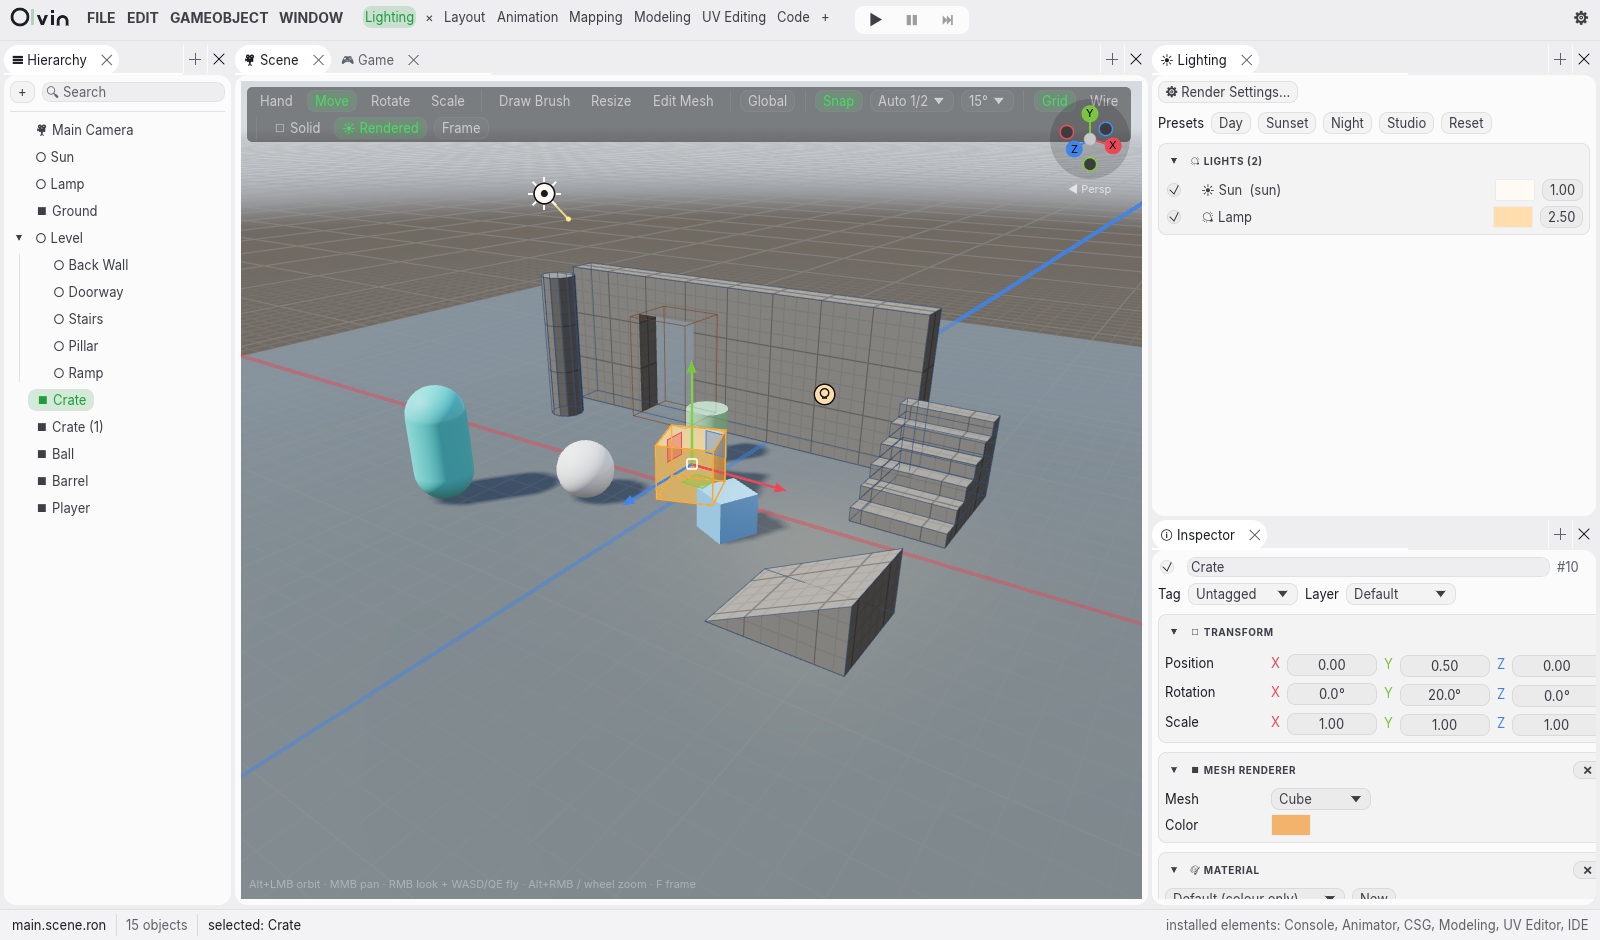
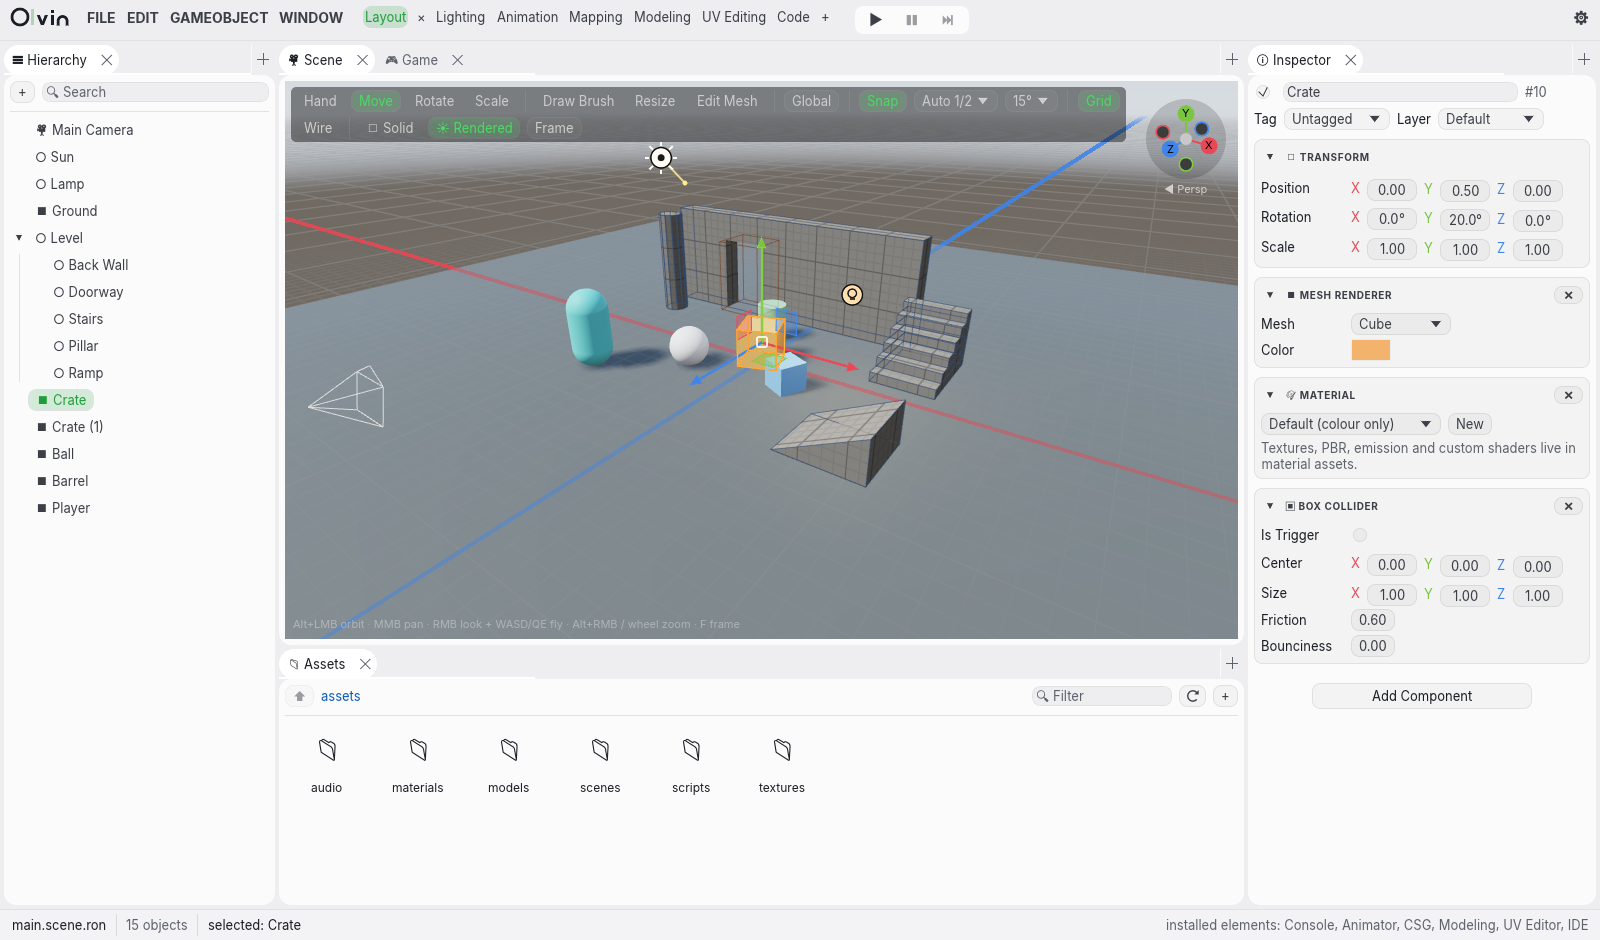
Docs: fresh README screenshots; ROADMAP undo and animation editor done
Claude-Session: https://claude.ai/code/session_01Sh9ehuscTWCNEtyXLAF9i7

diff --git a/ROADMAP.md b/ROADMAP.md
@@ -105,12 +105,12 @@
 
 ## Фаза 5. Редактор (P1–P2)
 
-- [~] **Undo и redo для всех операций**: сейчас есть в части редактора. Проверить, что покрыты перетаскивание, инспектор, Edit Mode, CSG и UV. (M) [P1] — частично: снимки всей сцены (`commit`, `UNDO_LIMIT`) покрывают всё, что меняет `SceneFile`; Edit Mode, CSG и UV не проверены.
+- [x] **Undo и redo для всех операций**: сейчас есть в части редактора. Проверить, что покрыты перетаскивание, инспектор, Edit Mode, CSG и UV. (M) [P1] — проверено тестами редактора: перетаскивание в иерархии, гизмо, инспектор, материалы (файлы откатываются вместе со сценой), Edit Mode, CSG, UV, анимация; во время Play история заморожена. Файловые операции с ассетами (переименование, перенос, удаление) в Undo не входят.
 - [x] **Play Mode, который не теряет правки**: сейчас важно, что происходит с сценой при остановке. Снимок сцены при старте и откат при стопе. (M) [P1] — `start_play`/`stop_play` сохраняют и восстанавливают сцену (`PlaySession`).
 - [ ] **Префабы в редакторе**: создание, переопределения, применение обратно. Зависит от фазы 1. (M) [P1]
 - [~] **Редактор материалов**: контракты M1 уже есть (`*.mat.ron`), нужен визуальный редактор с превью. (M) [P2] — частично: редактор материала в инспекторе с пресетами; превью нет.
 - [ ] **Панель профилировщика и статистики** (см. фазу 1). (S) [P2]
-- [ ] **Редактор анимаций**: соединить Animator с рантаймом после фазы 2. (L) [P2]
+- [x] **Редактор анимаций**: соединить Animator с рантаймом после фазы 2. (L) [P2] — аниматор как в Blender: F-кривые с Auto Clamped Bezier (перенос расчёта из Blender), Timeline, Dope Sheet, Graph Editor, I/Alt+I и цвета ключей в инспекторе; формат сцены v3 (`SceneFile::animation`), в игре и Play проигрывает `olvin_anim::ActionPlayer`. Нет: автоключей, маркеров, Normalize, анимации свойств кроме Transform; порядок поворотов YXZ, не XYZ.
 - [~] **Поиск по сцене и ассетам**, фильтры в консоли. (S) [P2] — частично: фильтры в панели ассетов и в консоли; поиска по иерархии нет.
 - [ ] **Multi-scene**: открыть несколько сцен одновременно, переключаться между ними. (M) [P3]
 - [ ] **Горячие клавиши настраиваемые** (сейчас зашиты). (S) [P3]

diff --git a/ROADMAP.en.md b/ROADMAP.en.md
@@ -105,12 +105,12 @@ Goal: what has been written is reliable, and the documentation does not lie.
 
 ## Phase 5. Editor (P1–P2)
 
-- [~] **Undo and redo for all operations**: currently present in part of the editor. Check that dragging, the inspector, Edit Mode, CSG and UV are covered. (M) [P1] — partial: whole-scene snapshots (`commit`, `UNDO_LIMIT`) cover anything that changes the `SceneFile`; Edit Mode, CSG and UV are unchecked.
+- [x] **Undo and redo for all operations**: currently present in part of the editor. Check that dragging, the inspector, Edit Mode, CSG and UV are covered. (M) [P1] — verified by editor tests: hierarchy drag, gizmos, the inspector, materials (files roll back with the scene), Edit Mode, CSG, UV, animation; history is frozen during Play. Asset file operations (rename, move, delete) are not undoable.
 - [x] **Play Mode that does not lose edits**: what happens to the scene when playback stops matters. A snapshot of the scene at start and a rollback on stop. (M) [P1] — `start_play`/`stop_play` save and restore the scene (`PlaySession`).
 - [ ] **Prefabs in the editor**: creating, overriding, applying back. Depends on phase 1. (M) [P1]
 - [~] **Material editor**: the `*.mat.ron` contracts exist (M1), a visual editor with a preview is needed. (M) [P2] — partial: in-inspector material editor with presets; no preview.
 - [ ] **Profiler and statistics panel** (see phase 1). (S) [P2]
-- [ ] **Animation editor**: connect Animator to the runtime after phase 2. (L) [P2]
+- [x] **Animation editor**: connect Animator to the runtime after phase 2. (L) [P2] — a Blender-like animator: F-curves with Auto Clamped Bezier (Blender's maths ported), Timeline, Dope Sheet, Graph Editor, I/Alt+I and key colours in the inspector; scene format v3 (`SceneFile::animation`), played in games and Play by `olvin_anim::ActionPlayer`. Missing: auto-keying, markers, Normalize, animating anything but Transform; rotation order is YXZ, not XYZ.
 - [~] **Search in the scene and assets**, filters in the console. (S) [P2] — partial: filters in the assets panel and the console; no hierarchy search.
 - [ ] **Multi-scene**: open several scenes at once and switch between them. (M) [P3]
 - [ ] **Configurable hotkeys** (currently hard-coded). (S) [P3]
